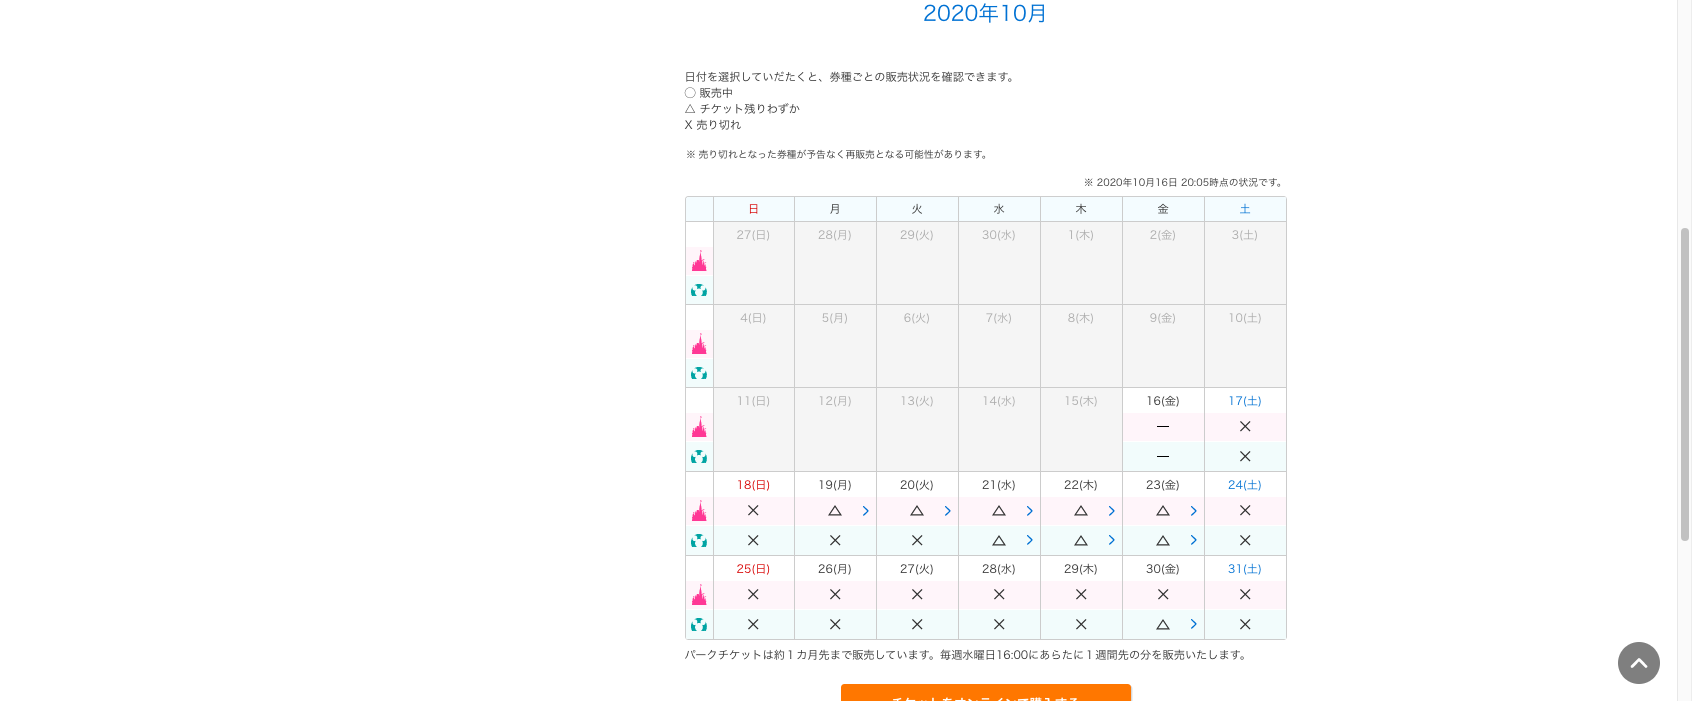
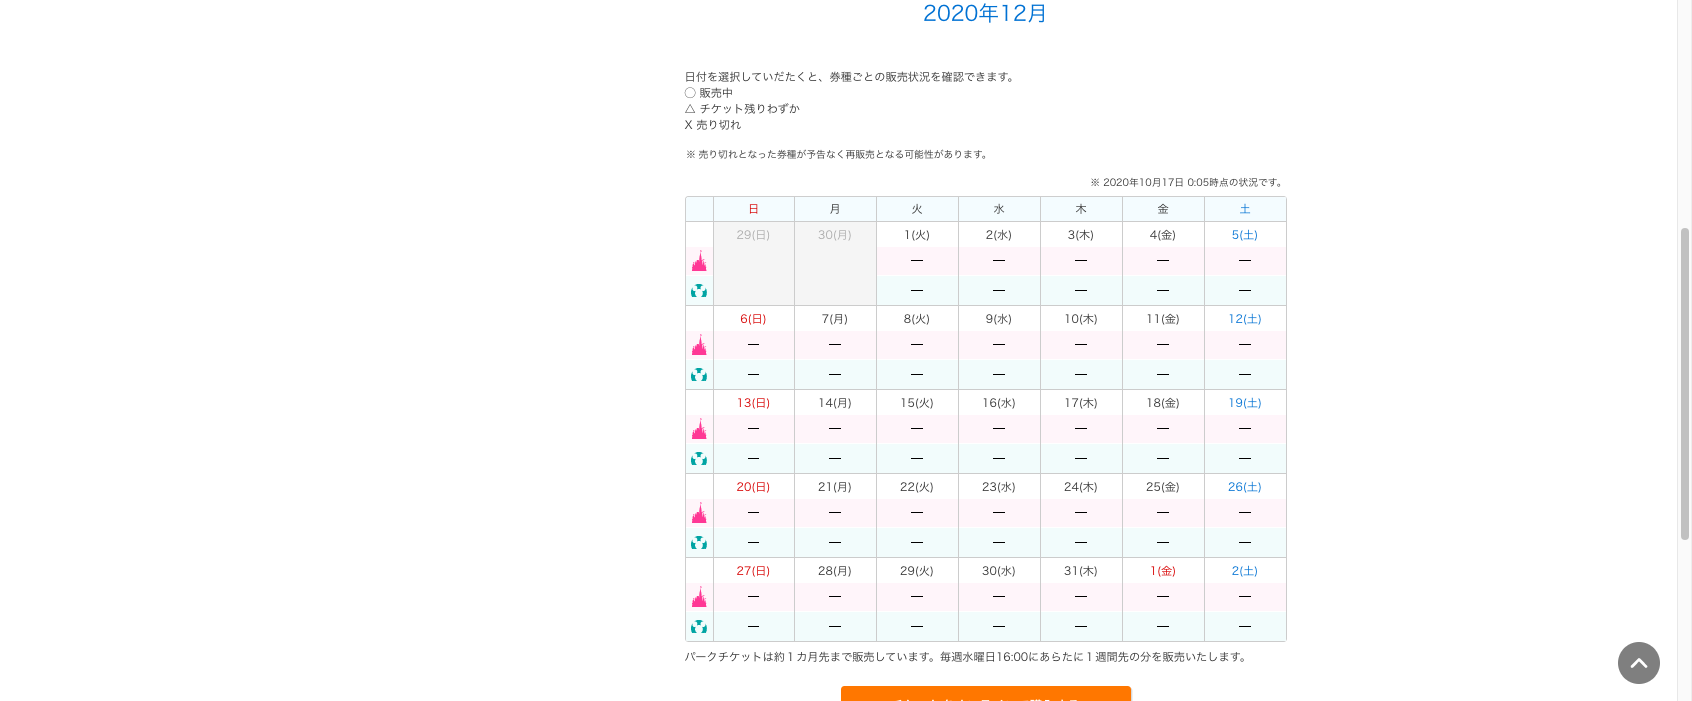
first commit

diff --git a/screenshot/screenshot.py b/screenshot/screenshot.py
@@ -8,10 +8,11 @@ from PIL import Image
 from restaurant.restaurant import RestaurantPage
 
 # set image directory
-image_dir = '/Users/mizuki1998/PycharmProjects/Screenshots/images/ticket.png'
+image_dir = '../images/ticket.png'
 
 # Select File for screenshots
 FILENAME = os.path.join(os.path.dirname(os.path.abspath(__file__)), image_dir)
+
 
 ticket_url = "https://www.tokyodisneyresort.jp/ticket/sales_status/2020{}/"
 
@@ -20,19 +21,6 @@ class Ticket(RestaurantPage):
     def __init__(self, day, title, pic_name):
         super(Ticket, self).__init__(day, title, pic_name)
 
-    @staticmethod
-    def cut_screenshot():
-        # resize and cut the screenshot
-        screenshot = Image.open('ticket.png')
-        width, height = screenshot.size
-        left = width - 1010
-        top = 0
-        right = width - 400
-        bottom = height - 62
-        image = screenshot.crop((left, top, right, bottom))
-        image.save('ticket-e.png')
-
-    #
     def take_ticket_pic(self):
         self.driver.get(ticket_url.format(self.day))
 
@@ -139,6 +127,18 @@ class Ticket(RestaurantPage):
         self.driver.save_screenshot(FILENAME)
         self.driver.quit()
 
+    @staticmethod
+    def cut_screenshot():
+        # resize and cut the screenshot
+        screenshot = Image.open('ticket.png')
+        width, height = screenshot.size
+        left = width - 1010
+        top = 0
+        right = width - 400
+        bottom = height - 62
+        image = screenshot.crop((left, top, right, bottom))
+        image.save('ticket-e.png')
+
     def send_line(self):
         notify_url = 'https://notify-api.line.me/api/notify'
         # problem: token is exposed, hide it to bash.file
@@ -163,7 +163,7 @@ class Ticket(RestaurantPage):
 #     time.sleep(2)
 
 # ticket for this month
-a = Ticket('10', 'チケット', 'ticket-e')
+a = Ticket('12', 'チケット', 'ticket-e')
 a.take_ticket_pic()
 a.cut_screenshot()
 a.send_line()

diff --git a/restaurant/restaurant.py b/restaurant/restaurant.py
@@ -10,12 +10,12 @@ from selenium.common.exceptions import NoSuchElementException
 options = Options()
 
 # set directory
-img_dir = '/Users/mizuki1998/PycharmProjects/Screenshots/images/restaurant.png'
+image_dir = '../images/restaurant.png'
 
 # chrome driver path
-DRIVER_PATH = '/Users/mizuki1998/Downloads/chromedriver'
+DRIVER_PATH = '{}/Downloads/chromedriver'.format(os.environ['USER_PATH'])
 
-FILENAME = os.path.join(os.path.dirname(os.path.abspath(__file__)), img_dir)
+FILENAME = os.path.join(os.path.dirname(os.path.abspath(__file__)), image_dir)
 
 restaurant_url = 'https://reserve.tokyodisneyresort.jp/sp/restaurant/search/'
 
@@ -27,7 +27,8 @@ class RestaurantPage:
         self.day = day
         self.title = title
         self.pic_name = pic_name
-        os.chdir('/Users/mizuki1998/PycharmProjects/Screenshots/images')
+        os.chdir('{}/PycharmProjects/Screenshots/images'.format(
+            os.environ['USER_PATH']))
 
     def search_restaurant(self):
         try:
